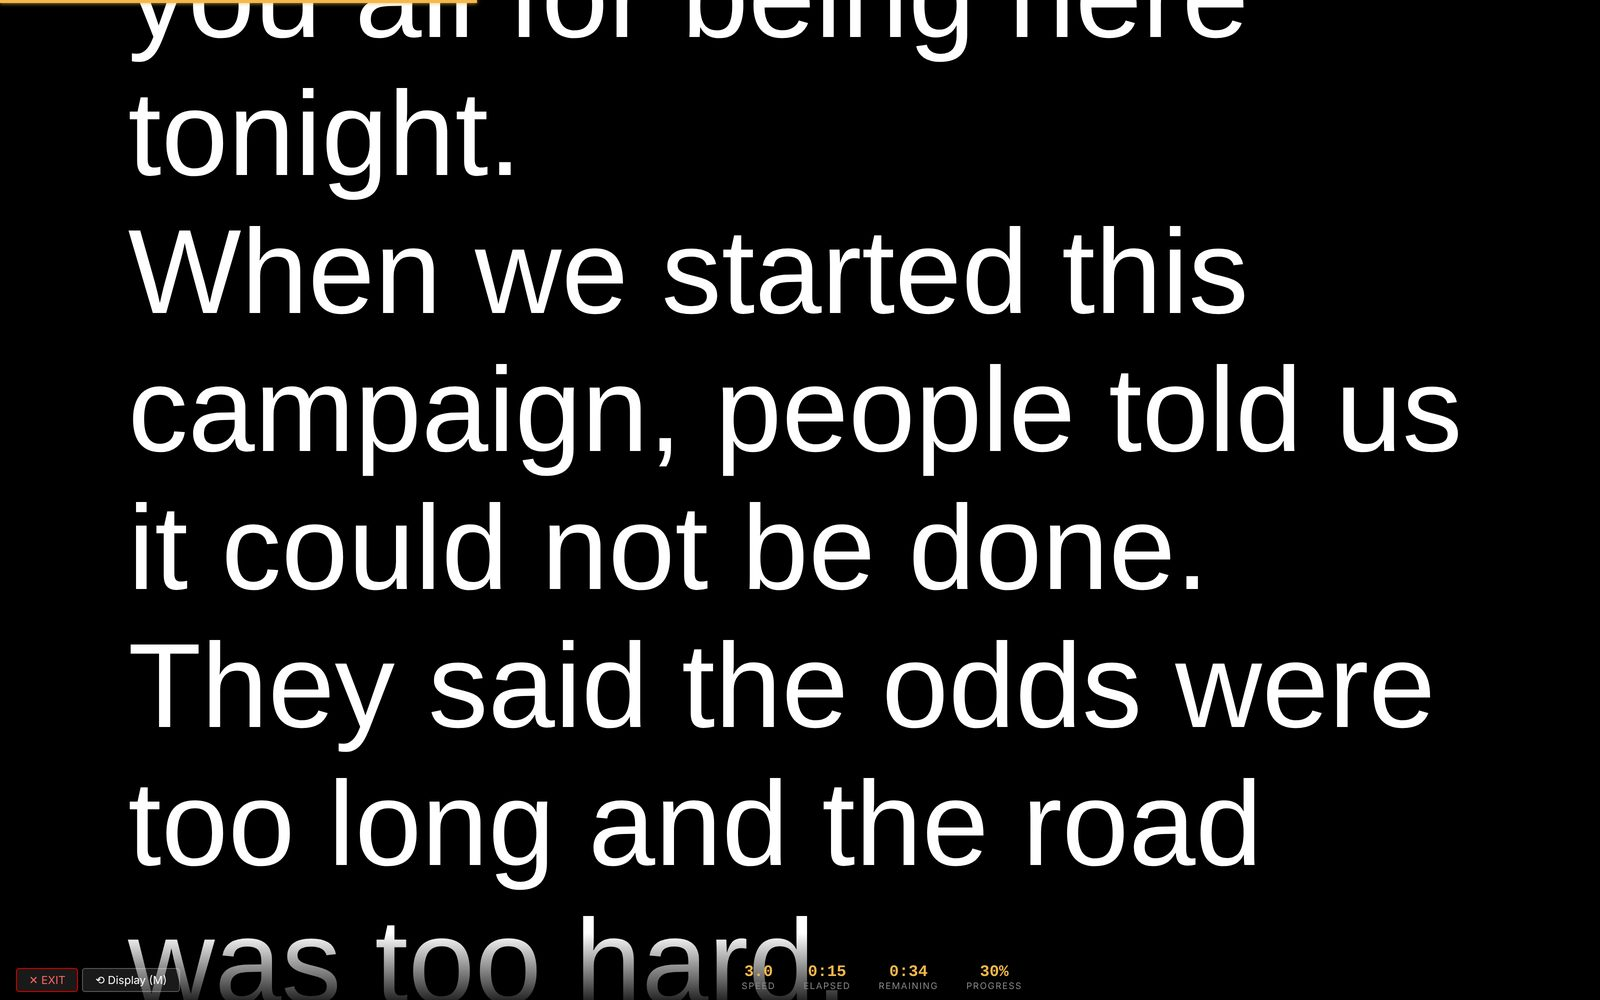
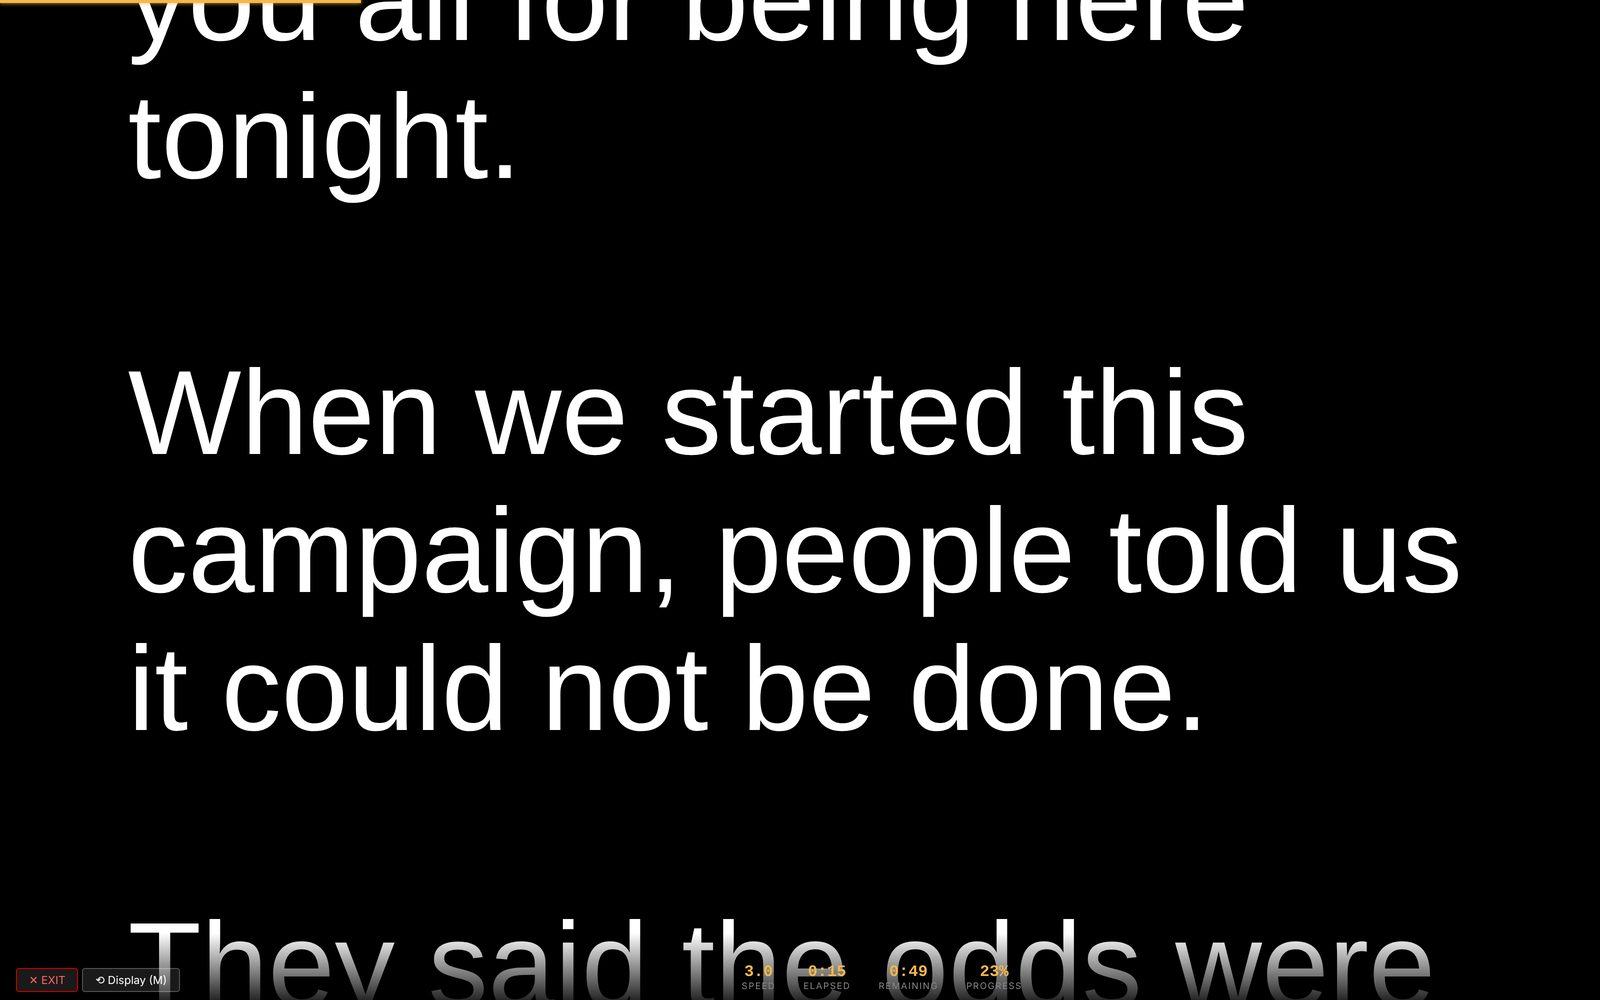
Demo: drop cue marker, blank line after each sentence; recapture screenshots the same way (#4)
Claude-Session: https://claude.ai/code/session_01SW4oYwAA8ZEcmkVZYUBX96

diff --git a/index.html b/index.html
@@ -75,10 +75,9 @@ img{display:block;max-width:100%;height:auto}
 .monitor{position:relative;margin-top:56px;aspect-ratio:16/9;max-height:62vh;border:1px solid #2a2a2a;background:#000;overflow:hidden}
 .glass{position:absolute;inset:0;overflow:hidden}
 .roll{position:absolute;left:0;right:0;top:100%;padding:0 5%;font-family:var(--prompter);font-size:clamp(22px,3.4vw,54px);line-height:1.18;color:#fff;will-change:transform;animation:roll 52s linear infinite}
-.roll p{margin:0}
-.roll .gap{height:.55em}
+.roll p{margin:0 0 .8em 0}
+.roll .gap{height:.4em}
 @keyframes roll{from{transform:translateY(0)}to{transform:translateY(-100%) translateY(-62vh)}}
-.cue{position:absolute;left:0;top:33%;width:12%;height:3px;background:var(--amber);z-index:2}
 .fade{position:absolute;left:0;right:0;height:16%;z-index:1;pointer-events:none}
 .fade.top{top:0;background:linear-gradient(#000,rgba(0,0,0,0))}
 .fade.bot{bottom:0;height:26%;background:linear-gradient(rgba(0,0,0,0),#000 70%)}
@@ -188,11 +187,10 @@ footer a:hover{color:#fff}
     <div class="monitor" aria-label="A live demonstration of how PrompterQ reads on the glass">
       <div class="glass" aria-hidden="true">
         <div class="fade top"></div>
-        <div class="cue"></div>
         <div class="roll" id="roll">
           <p>This is how PrompterQ reads on the glass.</p>
           <p>White Arial on a black field.</p>
-          <p>The cue line sits where the eye lands.</p>
+          <p>Every sentence on its own line, with air after it.</p>
           <div class="gap"></div>
           <p>One HTML file.</p>
           <p>It runs in Chrome.</p>
